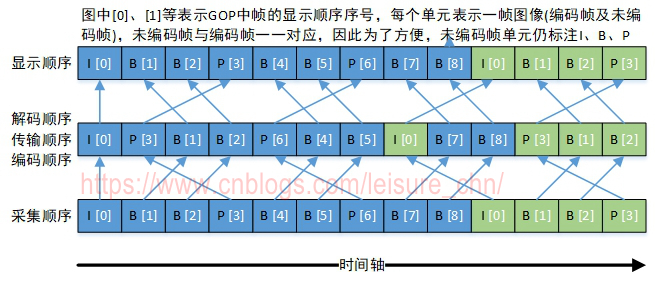
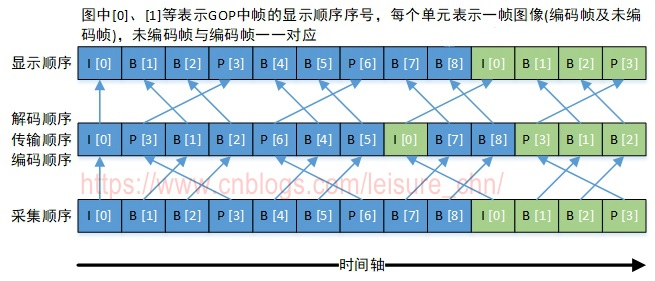
完善文档，增加图示

diff --git a/_posts/2018-12-28-ffplay源码分析.md b/_posts/2018-12-28-ffplay源码分析.md
@@ -11,9 +11,11 @@ ffplay源码路径为“ffmpeg-4.1/fftools/ffplay.c”，“ffmpeg-4.1”为FFmp
 
 在尝试分析源码前，应先阅读如下参考文章：  
 [1]. [雷霄骅，视音频编解码技术零基础学习方法](https://blog.csdn.net/leixiaohua1020/article/details/18893769)”  
+[2]. [视频编解码基础概念]()  
+[3]. [FFmpeg基础概念]()  
 
-## 1. 基本原理
-###1.1 播放器基本原理  
+## 1. 基本原理  
+### 1.1 播放器基本原理  
 下图引用自“[雷霄骅，视音频编解码技术零基础学习方法](https://blog.csdn.net/leixiaohua1020/article/details/18893769)”，因原图太小，看不太清楚，故重新制作了一张图片。  
 ![播放器基本原理示意图](https://leihl.github.io/img/ffmpeg_player/01_player_flow.jpg "播放器基本原理示意图")  
 如下内容引用自“[雷霄骅，视音频编解码技术零基础学习方法](https://blog.csdn.net/leixiaohua1020/article/details/18893769)”：  
@@ -29,7 +31,7 @@ ffplay源码路径为“ffmpeg-4.1/fftools/ffplay.c”，“ffmpeg-4.1”为FFmp
 >**音视频同步**  
 根据解封装模块处理过程中获取到的参数信息，同步解码出来的视频和音频数据，并将视频音频数据送至系统的显卡和声卡播放出来。
 
-###1.2 FFmpeg转码流程
+### 1.2 FFmpeg转码流程  
 <pre>
  _______              ______________
 |       |            |              |
@@ -55,16 +57,14 @@ ffplay源码路径为“ffmpeg-4.1/fftools/ffplay.c”，“ffmpeg-4.1”为FFmp
 
 ffplay不需要编码过程，是将上图中的解码后帧送往屏幕显示。
 
-## 2. 代码框架与处理流程
+## 2. 代码框架与处理流程  
 本节简单梳理ffplay.c代码框架。一些关键问题及细节问题在后续章节探讨。  
 
-### 2.1 流程图
-[]()
-**packet**：未解码的压缩数据包
-**frame**：解码后的原始数据包
+### 2.1 流程图  
+![ffplay流程图](https://leihl.github.io/img/ffplay_analysis/ffplay_flow.jpg "ffplay流程图")  
 
-### 2.2 关键数据结构
-#### 2.2.1 struct VideoState
+### 2.2 关键数据结构  
+#### 2.2.1 struct VideoState  
 ```c  
 typedef struct VideoState {
     SDL_Thread *read_tid;       // demux解复用线程
@@ -193,7 +193,7 @@ typedef struct Clock {
 } Clock;
 ```
 
-#### 2.2.3 struct PacketQueue
+#### 2.2.3 struct PacketQueue  
 ```c  
 typedef struct PacketQueue {
     MyAVPacketList *first_pkt, *last_pkt;
@@ -207,7 +207,7 @@ typedef struct PacketQueue {
 } PacketQueue;
 ```
 
-#### 2.2.4 struct FrameQueue
+#### 2.2.4 struct FrameQueue  
 ```c  
 typedef struct FrameQueue {
     Frame queue[FRAME_QUEUE_SIZE];
@@ -223,9 +223,9 @@ typedef struct FrameQueue {
 } FrameQueue;
 ```
 
-### 2.3 主线程：event_loop()
+### 2.3 主线程  
 **主线程主要实现三项功能：视频播放(音视频同步)、字幕播放、SDL消息处理。**  
-音频播放由SDL库内建线程实现。
+音频播放由SDL库内建线程实现。  
 
 主线程在进行一些必要的初始化工作、创建解复用线程后，即进入event_loop()主循环，处理视频播放和SDL消息事件：  
 ```c
@@ -259,7 +259,7 @@ static void event_loop(VideoState *cur_stream)
 ```
 
 #### 2.3.1 视频播放  
-##### 2.3.1.1 refresh_loop_wait_event()
+##### 2.3.1.1 refresh_loop_wait_event()  
 ```c
 static void refresh_loop_wait_event(VideoState *is, SDL_Event *event) {
     double remaining_time = 0.0;
@@ -281,8 +281,8 @@ static void refresh_loop_wait_event(VideoState *is, SDL_Event *event) {
 }
 ```
 
-#### 2.3.2.2 video_refresh()  
-主要是从视频frame队列中取出frame进行显示。此函数中进行了音视频的同步。此函数为ffplay.c中最核心函数之一，在第2节音视频同步部分讲解。  
+##### 2.3.1.2 video_refresh()  
+主要是从视频frame队列中取出frame进行显示。此函数中进行了音视频的同步。此函数为ffplay.c中最核心函数之一，在第3.3节分析。  
 
 #### 2.3.2 SDL消息处理  
 处理各种SDL消息，比如暂停、强制刷新等按键事件。比较简单。  
@@ -314,7 +314,7 @@ static void event_loop(VideoState *cur_stream)
 }
 ```
 
-### 2.4 解复用线程：read_thread()
+### 2.4 解复用线程  
 **解复用线程读取视频文件，将取到的packet根据类型(音频、视频、字幕)存入不同是packet队列中。**  
 为节省篇幅，如下源码中非关键内容的源码使用“......”替代。代码流程参考注释。  
 ```c
@@ -478,10 +478,10 @@ static int read_thread(void *arg)
 [1]. 创建音频、视频、字幕解码线程  
 [2]. 从输入文件读取packet，根据packet类型(音频、视频、字幕)将这放入不同packet队列  
 
-### 2.5 视频解码线程：video_thread()
+### 2.5 视频解码线程  
 **视频解码线程从视频packet队列中取数据，解码后存入视频frame队列**  
 
-#### 2.5.1 video_thread()
+#### 2.5.1 video_thread()  
 视频解码线程将解码后的帧放入frame队列中。为节省篇幅，如下源码中删除了滤镜filter相关代码。  
 ```c
 // 视频解码线程：从视频packet_queue中取数据，解码后放入视频frame_queue
@@ -523,7 +523,7 @@ the_end:
 }
 ```
 
-#### 2.5.2 get_video_frame()
+#### 2.5.2 get_video_frame()  
 从packet队列中取一个packet解码得到一个frame，并判断是否要根据framedrop机制丢弃失去同步的视频帧。参考源码中注释：  
 ```c
 static int get_video_frame(VideoState *is, AVFrame *frame)
@@ -571,13 +571,13 @@ static int get_video_frame(VideoState *is, AVFrame *frame)
 ffplay中framedrop处理有两种，一处是此处解码后得到的frame尚未存入frame队列前，以is->frame_drops_early++为标记；另一处是frame队列中读取frame进行显示的时候，以is->frame_drops_late++为标记。  
 本处framedrop操作涉及的变量is->frame_last_filter_delay属于滤镜filter操作相关，ffplay中默认是关闭滤镜的，本文不考虑滤镜相关操作。  
 
-#### 2.5.3 decoder_decode_frame()
-这个函数是很核心的一个函数，可以解码视频帧和音频帧。视频解码线程中，视频帧实际的解码操作就在此函数中进行。  
+#### 2.5.3 decoder_decode_frame()  
+这个函数是很核心的一个函数，可以解码视频帧和音频帧。视频解码线程中，视频帧实际的解码操作就在此函数中进行。分析过程参考3.2节。  
 
-### 2.6 音频解码线程：audio_thread()
+### 2.6 音频解码线程  
 **音频解码线程从音频packet队列中取数据，解码后存入音频frame队列**  
 
-#### 2.6.1 打开音频设备
+#### 2.6.1 打开音频设备  
 音频设备的打开实际是在解复用线程中实现的。解复用线程中先打开音频设备(设定音频回调函数供SDL音频播放线程回调)，然后再创建音频解码线程。调用链如下：  
 ```c
 main() -->
@@ -892,7 +892,7 @@ enum AVSampleFormat {
      2) 音频设备打开后播放静音，不启动回调，调用SDL_PauseAudio(0)后启动回调，开始正常播放音频  
         SDL_OpenAudioDevice()第一个参数为NULL时，等价于SDL_OpenAudio()  
 
-#### 2.6.2 audio_thread()
+#### 2.6.2 audio_thread()  
 从音频packet_queue中取数据，解码后放入音频frame_queue：  
 ```c
 // 音频解码线程：从音频packet_queue中取数据，解码后放入音频frame_queue
@@ -936,18 +936,18 @@ static int audio_thread(void *arg)
 }
 ```
 
-#### 2.6.3 decoder_decode_frame()
+#### 2.6.3 decoder_decode_frame()  
 此函数既可以解码音频帧，也可以解码视频帧，函数实现代码参考2.2节。
 
-### 2.7 字幕解码线程：subtitle_thread()
+### 2.7 字幕解码线程  
 实现细节略。以后有机会研究字幕时，再作补充。
 
-### 2.8 音频播放线程
+### 2.8 音频播放线程  
 音频播放线程是SDL内建的线程，通过回调的方式调用用户提供的回调函数。  
 回调函数在SDL_OpenAudio()时指定。  
 暂停/继续回调过程由SDL_PauseAudio()控制。  
 
-#### 2.8.1 sdl_audio_callback()
+#### 2.8.1 sdl_audio_callback()  
 音频回调函数如下：  
 ```c
 // 音频处理回调函数。读队列获取音频包，解码，播放
@@ -1007,11 +1007,11 @@ static void sdl_audio_callback(void *opaque, Uint8 *stream, int len)
 }
 ```
 
-#### 2.8.2 audio_decode_frame()
+#### 2.8.2 audio_decode_frame()  
 从音频frame队列中取出一个frame，此frame的格式是输入文件中的音频格式，音频设备不一定支持这些参数，所以要将frame转换为音频设备支持的格式。  
-实现细节略，有精力再分析。  
+实现细节略，有时间再分析。  
 
-## 2. 音视频同步  
+## 3. 音视频同步  
 音视频同步的目的是为了使播放的声音和显示的画面保持一致。视频按帧播放，图像显示设备每次显示一帧画面，视频播放速度由帧率确定，帧率指示每秒显示多少帧；音频按采样点播放，声音播放设备每次播放一个采样点，声音播放速度由采样率确定，采样率指示每秒播放多少个采样点。如果仅仅是视频按帧率播放，音频按采样率播放，二者没有同步机制，即使最初音视频是基本同步的，随着时间的流逝，音视频会逐渐失去同步，并且不同步的现象会越来越严重。这是因为：一、播放时间难以精确控制，二、异常及误差会随时间累积。所以，必须要采用一定的同步策略，不断对音视频的时间差作校正，使图像显示与声音播放总体保持一致。  
 
 我们以一个44.1KHz的AAC音频流和25FPS的H264视频流为例，来简单演示一下音视频同步过程：  
@@ -1019,6 +1019,7 @@ static void sdl_audio_callback(void *opaque, Uint8 *stream, int len)
 一个H264视频frame播放时长(duration)为：1000ms/25 = 40ms  
 声卡虽然是以音频采样点为播放单位，但通常我们每次往声卡缓冲区送一个音频frame，每送一个音频frame更新一下音频的播放时刻，即每隔一个音频frame时长更新一下音频时钟，实际上ffplay就是这么做的。  
 我们暂且把一个音频时钟更新点记作其播放点，理想情况下，音视频完全同步，音视频播放过程如下图所示：  
+![音视频同步理想情况](https://leihl.github.io/img/ffplay_analysis/ffplay_avsync_ideal.jpg "音视频同步理想情况")  
 
 音视频同步的方式基本是确定一个时钟(音频时钟、视频时钟、外部时钟)作为主时钟，非主时钟的音频或视频时钟为从时钟。在播放过程中，主时钟作为同步基准，不断判断从时钟与主时钟的差异，调节从时钟，使从时钟追赶(落后时)或等待(超前时)主时钟。按照主时钟的不同种类，可以将音视频同步模式分为如下三种：  
 **音频同步到视频**，视频时钟作为主时钟。  
@@ -1033,7 +1034,7 @@ enum {
 };
 ```
 
-### 2.1 time_base  
+### 3.1 time_base  
 time_base是PTS和DTS的时间单位，也称时间基。  
 不同的封装格式time_base不一样，转码过程中的不同阶段time_base也不一样。  
 以mpegts封装格式为例，假设视频帧率25FPS为。编码数据包packet(数据结构AVPacket)对应的time_base为AVRational{1,90000}。原始数据帧frame(数据结构AVFrame)对应的time_base为AVRational{1,25}。在解码或播放过程中，我们关注的是frame的time_base，定义在AVStream结构体中，其表示形式AVRational{1,25}是一个分数，值为1/25，单位是秒。在旧的FFmpeg版本中，AVStream中的time_base成员有如下注释：
@@ -1075,11 +1076,20 @@ double duration_of_stream = st->duration * av_q2d(st->time_base);   // 视频流
 double pts_of_frame = frame->pts * av_q2d(st->time_base);           // 视频帧显示时间戳
 ```
 
-### 2.2 PTS&DTS&解码过程  
+### 3.2 PTS&DTS&解码过程  
 DTS(Decoding Time Stamp, 解码时间戳)，表示packet的解码时间。  
 PTS(Presentation Time Stamp, 显示时间戳)，表示packet解码后数据的显示时间。  
 音频中DTS和PTS是相同的。视频中由于B帧需要双向预测，B帧依赖于其前和其后的帧，因此含B帧的视频解码顺序与显示顺序不同，即DTS与PTS不同。当然，不含B帧的视频，其DTS和PTS是相同的。  
-解码顺序与显示顺序不同，参[]
+
+下图以一个开放式GOP示意图为例，说明视频流的解码顺序和显示顺序  
+![解码和显示顺序](https://leihl.github.io/img/avideo_basics/decode_order.jpg "解码和显示顺序")  
+**采集顺序**指图像传感器采集原始信号得到图像帧的顺序。  
+**编码顺序**指编码器编码后图像帧的顺序。存储到磁盘的本地视频文件中图像帧的顺序与编码顺序相同。  
+**传输顺序**指编码后的流在网络中传输过程中图像帧的顺序。  
+**解码顺序**指解码器解码图像帧的顺序。  
+**显示顺序**指图像帧在显示器上显示的顺序。  
+**采集顺序与显示顺序相同。编码顺序、传输顺序和解码顺序相同。**  
+图中“B[1]”帧依赖于“I[0]”帧和“P[3]”帧，因此“P[3]”帧必须比“B[1]”帧先解码。这就导致了解码顺序和显示顺序的不一致，后显示的帧需要先解码。  
 
 理解了含B帧视频流解码顺序与显示顺序的不同，才容易理解解码函数decoder_decode_frame()中对视频解码的处理：  
 **avcodec_send_packet()按解码顺序发送packet。**  
@@ -1198,7 +1208,7 @@ static int decoder_decode_frame(Decoder *d, AVFrame *frame, AVSubtitle *sub) {
 [3]. 从解码器接收解码后的frame，此frame作为函数的输出参数供上级函数处理  
 
 注意如下几点：  
-[1]. 含B帧的视频文件，其视频帧存储顺序与显示顺序不同，参[]  
+[1]. 含B帧的视频文件，其视频帧存储顺序与显示顺序不同  
 [2]. 解码器的输入是packet队列，视频帧解码顺序与存储顺序相同，是按dts递增的顺序。dts是解码时间戳，因此存储顺序解码顺序都是dts递增的顺序。avcodec_send_packet()就是将视频文件中的packet序列依次发送给解码器。发送packet的顺序如IPBBPBB。  
 [3]. 解码器的输出是frame队列，frame输出顺序是按pts递增的顺序。pts是解码时间戳。pts与dts不一致的问题由解码器进行了处理，用户程序不必关心。从解码器接收frame的顺序如IBBPBBP。  
 [4]. 解码器中会缓存一定数量的帧，一个新的解码动作启动后，向解码器送入好几个packet解码器才会输出第一个packet，这比较容易理解，因为解码时帧之间有信赖关系，例如IPB三个帧被送入解码器后，B帧解码需要依赖I帧和P帧，所在在B帧输出前，I帧和P帧必须存在于解码器中而不能删除。理解了这一点，后面视频frame队列中对视频帧的显示和删除机制才容易理解。  
@@ -1206,7 +1216,7 @@ static int decoder_decode_frame(Decoder *d, AVFrame *frame, AVSubtitle *sub) {
 
 如何确定解码器的输出frame与输入packet的对应关系呢？可以对比frame->pkt_pos和pkt.pos的值，这两个值表示packet在视频文件中的偏移地址，如果这两个变量值相等，表示此frame来自此packet。调试跟踪这两个变量值，即能发现解码器输入帧与输出帧的关系。为简便，就不贴图了。  
 
-### 2.3 视频同步到音频  
+### 3.3 视频同步到音频  
 视频同步到音频是ffplay的默认同步方式。在视频播放线程中实现。  
 视频播放函数video_refresh()实现了视频显示(包含同步控制)，是非常核心的一个函数，理解起来也有些难度。  
 这个函数的调用过程如下：  
@@ -1355,15 +1365,12 @@ display:
 }
 ```
 视频同步到音频的基本方法是：如果视频超前音频，则重复播放上一帧以等待音频；如果视频落后音频，则丢弃当前帧直接播放下一帧来追赶音频。此函数执行流程参考如下流程图：  
-[]()
+![video_refresh()流程图](https://leihl.github.io/img/ffplay_analysis/video_refresh_flow.jpg "video_refresh()流程图")  
+
 步骤如下：  
 [1] 根据上一帧lastvp的播放时长duration，校正等到delay值，duration是上一帧理想播放时长，delay是上一帧实际播放时长，根据delay值可以计算得到当前帧的播放时刻  
 [2] 如果当前帧vp播放时刻未到，则继续显示上一帧lastvp，并将延时值remaining_time作为输出参数供上级调用函数处理  
 [3] 如果当前帧vp播放时刻已到，则立即显示当前帧，并更新读指针  
-
-这个过程，参考如下示意图：  
-[]()
-
 
 在video_refresh()函数中，调用了compute_target_delay()来根据视频时钟与主时钟的差异来调节delay值，从而调节视频帧播放的时刻。  
 ```c
@@ -1405,7 +1412,7 @@ static double compute_target_delay(double delay, VideoState *is)
 
     return delay;
 }
-````
+```
 compute_target_delay()的输入参数delay是上一帧理想播放时长duration，返回值delay是经校正后的上一帧实际播放时长。为方便描述，下面我们将输入参数记作duration(对应函数的输入参数delay)，返回值记作delay(对应函数返回值delay)。  
 本函数实现功能如下：  
 [1] 计算视频时钟与音频时钟(主时钟)的偏差diff，实际就是视频上一帧pts减去音频上一帧pts。所谓上一帧，就是已经播放的最后一帧，上一帧的pts可以标识视频流/音频流的播放时刻(进度)。  
@@ -1420,10 +1427,18 @@ a) 视频时钟落后于同步时钟且落后值超过同步域值：
    a2) 否则delay=duration+diff  
 b) 视频时钟超前于同步时钟且超过同步域值：  
    b1) 上一帧播放时长过长(超过最大值)，仅校正为delay=duration+diff；  
-   b2) 否则delay=duration*2，视频播放放慢脚步，等待音频  
+   b2) 否则delay=duration×2，视频播放放慢脚步，等待音频  
 c) 视频时钟与音频时钟的差异在同步域值内，表明音视频处于同步状态，不校正delay，则delay=duration  
 
-### 2.4 音频同步到视频  
+对上述视频同步到音频的过程作一个总结，参考下图：  
+![ffplay音视频同步示意图](https://leihl.github.io/img/ffplay_analysis/ffplay_avsync_illustrate.jpg "ffplay音视频同步示意图")  
+图中，小黑圆圈是代表帧的实际播放时刻，小红圆圈代表帧的理论播放时刻，小绿方块表示当前系统时间(当前时刻)，小红方块表示位于不同区间的时间点，则当前时刻处于不同区间时，视频同步策略为：  
+[1] 当前时刻在T0位置，则重复播放上一帧，延时remaining_time后再播放当前帧  
+[2] 当前时刻在T1位置，则立即播放当前帧  
+[3] 当前时刻在T2位置，则忽略当前帧，立即显示下一帧，加速视频追赶  
+上述内容是为了方便理解进行的简单而形象的描述。实际过程要计算相关值，根据compute_target_delay()和video_refresh()中的策略来控制播放过程。  
+
+### 3.4 音频同步到视频  
 音频同步到视频的方式，在音频播放线程中，实现代码在audio_decode_frame()及synchronize_audio()中。  
 函数调用关系如下：  
 ```c  
@@ -1433,13 +1448,13 @@ synchronize_audio()
 ```
 以后有时间再补充分析过程。  
 
-### 2.5 音视频同步到外部时钟  
+### 3.5 音视频同步到外部时钟  
 略
 
-## 3. 暂停/继续的实现方式  
+## 4. 暂停/继续的实现方式  
 暂停/继续状态的切换是由用户按空格键实现的，每按一次空格键，暂停/继续的状态翻转一次。  
 
-### 3.1 暂停/继续状态切换  
+### 4.1 暂停/继续状态切换  
 函数调用关系如下：  
 ```c  
 main() -->
@@ -1465,9 +1480,8 @@ static void stream_toggle_pause(VideoState *is)
 }
 ```
 
-### 3.2 暂停状态下的视频播放  
+### 4.2 暂停状态下的视频播放  
 在video_refresh()函数中有如下代码：  
-```c  
 ```c  
 /* called to display each frame */
 static void video_refresh(void *opaque, double *remaining_time)
@@ -1489,7 +1503,7 @@ static void video_refresh(void *opaque, double *remaining_time)
 ```
 在暂停状态下，实际就是不停播放上一帧(最后一帧)图像。画面不更新。  
 
-### 3.3 逐帧播放的实现  
+### 4.3 逐帧播放的实现  
 逐帧播放是用户每按一次s键，播放器播放一帧画现。  
 逐帧播放实现的方法是：每次按了s键，就将状态切换为播放，播放一帧画面后，将状态切换为暂停。  
 函数调用关系如下：  
@@ -1526,23 +1540,25 @@ static void video_refresh(void *opaque, double *remaining_time)
     ......
 }
 ```
-## 4. 播放速度控制  
+## 5. 播放速度控制  
 待补充  
 
-## 5. seek操作的实现方式  
+## 6. seek操作的实现方式  
 待补充  
 
-## 6. 参考资料  
+## 7. 参考资料  
 [1] 雷霄骅，[视音频编解码技术零基础学习方法](https://blog.csdn.net/leixiaohua1020/article/details/18893769)  
-[4] Martin Bohme, [An ffmpeg and SDL Tutorial, Tutorial 05: Synching Video](http://dranger.com/ffmpeg/ffmpegtutorial_all.html#tutorial05.html)  
+[2] [视频编解码基础概念]()<>  
+[3] [FFmpeg基础概念]()<>  
+[4] [零基础读懂视频播放器控制原理：ffplay播放器源代码分析](https://cloud.tencent.com/developer/article/1004559)<https://cloud.tencent.com/developer/article/1004559>  
+[5] [An ffmpeg and SDL Tutorial, Tutorial 05: Synching Video](http://dranger.com/ffmpeg/ffmpegtutorial_all.html#tutorial05.html)  
+[6] [视频同步音频](https://zhuanlan.zhihu.com/p/44615401)<https://zhuanlan.zhihu.com/p/44615401>  
+[7] [音频同步视频](https://zhuanlan.zhihu.com/p/44680734)<https://zhuanlan.zhihu.com/p/44680734>  
+[8] [音视频同步(播放)原理](https://blog.csdn.net/zhuweigangzwg/article/details/25815851)<https://blog.csdn.net/zhuweigangzwg/article/details/25815851>  
+[9] [对ffmpeg的时间戳的理解笔记](https://blog.csdn.net/topsluo/article/details/76239136)<https://blog.csdn.net/topsluo/article/details/76239136>  
+[10] [ffmpeg音视频同步---视频同步到音频时钟](https://my.oschina.net/u/735973/blog/806117)<https://my.oschina.net/u/735973/blog/806117>  
+[11] [FFmpeg音视频同步原理与实现](https://www.jianshu.com/p/3578e794f6b5)<https://www.jianshu.com/p/3578e794f6b5>  
+[12] [FFmpeg学习4：音频格式转换](https://www.cnblogs.com/wangguchangqing/p/5851490.html)  
 
-http://www.cnblogs.com/zhangming-blog/articles/6000518.html  
-https://blog.csdn.net/abcsunl/article/details/68190136  
-https://www.jianshu.com/p/04b5b1e4ff27  
-https://blog.csdn.net/aokewood/article/details/6893699  
-
-
-https://www.cnblogs.com/wangguchangqing/p/5851490.html
-
-## 7. 修改记录  
+## 8. 修改记录  
 2018-12-28  V1.0  初稿  
